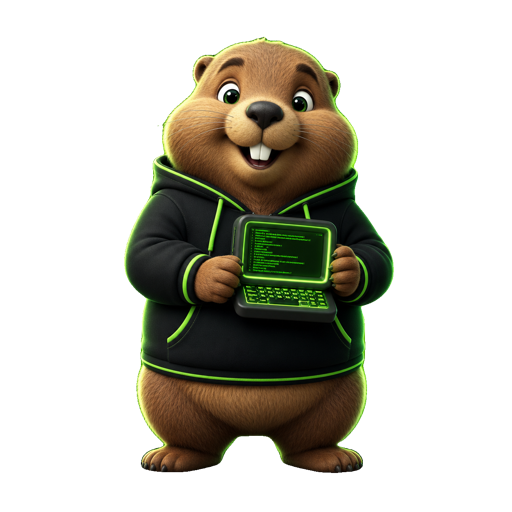
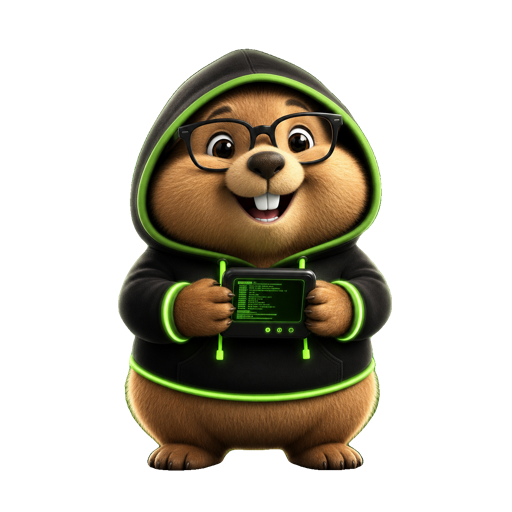
feat(app): 主题切换 crossfade 过渡 + code 图标质感升级 + 绿色吉祥物重做
- 切配色/切吉祥物/滑动切换/明暗切换 均带 280ms crossfade 淡出过渡（截当前屏→切主题→旧屏淡出），web 自动降级为直接切换
- 「内联工具调用」图标换成渐变 squircle chip（圆角+对角渐变+高光+投影，更有质感）
- 极客(hoodie)吉祥物换成新的全身形象

Generated with [Claude Code](https://claude.ai/code)
via [Happy](https://happy.engineering)

Changed region(s): [[0.2188, 0.0625, 0.7812, 0.9375]]

diff --git a/packages/happy-app/sources/components/ThemeTransition.tsx b/packages/happy-app/sources/components/ThemeTransition.tsx
@@ -1,0 +1,84 @@
+import * as React from 'react';
+import { View, StyleSheet, Platform } from 'react-native';
+import Animated, { useSharedValue, useAnimatedStyle, withTiming, runOnJS } from 'react-native-reanimated';
+import { Image } from 'expo-image';
+import { captureRef } from 'react-native-view-shot';
+
+//
+// 主题切换过渡（crossfade）
+// ------------------------------------------------------------------
+// 切换主题色/吉祥物时，先把「当前屏幕」截一张快照盖在最顶层，再切主题，
+// 然后让快照平滑淡出 —— 视觉上就是旧配色柔和溶解到新配色，简洁不花哨。
+//
+// 用法：把会改主题的操作包进 runThemeTransition(() => { ...setThemePack/applyTheme... })。
+// web 或截图不可用时自动降级为「无动画直接切换」。
+//
+
+const DURATION = 280;
+
+// 截图根 View 的 ref（由 <ThemeCaptureRoot> 注册）
+let rootRef: React.RefObject<View | null> | null = null;
+// overlay 控制器（由 <ThemeTransitionOverlay> 注册）
+let showOverlay: ((uri: string, apply: () => void) => void) | null = null;
+
+export async function runThemeTransition(apply: () => void) {
+    // 不具备条件就直接切换，绝不因动画失败而切不了主题
+    if (Platform.OS === 'web' || !rootRef?.current || !showOverlay) {
+        apply();
+        return;
+    }
+    try {
+        const uri = await captureRef(rootRef, { format: 'png', quality: 1 });
+        showOverlay(uri, apply);
+    } catch {
+        apply();
+    }
+}
+
+/** 截图根容器：包住要被快照的全部内容，并挂载淡出层 */
+export const ThemeCaptureRoot = React.memo(function ThemeCaptureRoot({ children }: { children: React.ReactNode }) {
+    const ref = React.useRef<View>(null);
+    React.useEffect(() => {
+        rootRef = ref;
+        return () => { rootRef = null; };
+    }, []);
+    return (
+        <View ref={ref} collapsable={false} style={{ flex: 1 }}>
+            {children}
+            <ThemeTransitionOverlay />
+        </View>
+    );
+});
+
+const ThemeTransitionOverlay = React.memo(function ThemeTransitionOverlay() {
+    const [uri, setUri] = React.useState<string | null>(null);
+    const applyRef = React.useRef<(() => void) | null>(null);
+    const opacity = useSharedValue(0);
+
+    React.useEffect(() => {
+        showOverlay = (u, apply) => {
+            applyRef.current = apply;
+            opacity.value = 1;   // 盖住（快照加载前底层仍是旧主题，无突兀）
+            setUri(u);
+        };
+        return () => { showOverlay = null; };
+    }, [opacity]);
+
+    // 快照加载完成 → 此刻切主题（被快照盖住看不到瞬切）→ 快照淡出露出新配色
+    const onLoaded = React.useCallback(() => {
+        applyRef.current?.();
+        applyRef.current = null;
+        opacity.value = withTiming(0, { duration: DURATION }, (finished) => {
+            if (finished) runOnJS(setUri)(null);
+        });
+    }, [opacity]);
+
+    const style = useAnimatedStyle(() => ({ opacity: opacity.value }));
+
+    if (!uri) return null;
+    return (
+        <Animated.View pointerEvents="none" style={[StyleSheet.absoluteFill, style]}>
+            <Image source={{ uri }} style={StyleSheet.absoluteFill} contentFit="cover" onLoad={onLoaded} />
+        </Animated.View>
+    );
+});

diff --git a/packages/happy-app/sources/components/GradientIcon.tsx b/packages/happy-app/sources/components/GradientIcon.tsx
@@ -1,0 +1,72 @@
+import * as React from 'react';
+import { View, StyleSheet } from 'react-native';
+import { LinearGradient } from 'expo-linear-gradient';
+import { Ionicons } from '@expo/vector-icons';
+
+//
+// 渐变图标 chip
+// ------------------------------------------------------------------
+// 圆角 squircle 方块 + 对角渐变 + 白色字形 + 柔和同色投影，
+// iOS app-icon 质感。用于设置项里需要更精致呈现的图标。
+//
+
+type GradientIconProps = {
+    name: React.ComponentProps<typeof Ionicons>['name'];
+    /** 渐变两端色（左上 → 右下） */
+    colors?: readonly [string, string];
+    /** chip 边长（默认贴合 Item iconContainer） */
+    size?: number;
+};
+
+export const GradientIcon = React.memo(function GradientIcon({
+    name,
+    colors = ['#7B8CFF', '#5856D6'],
+    size = 29,
+}: GradientIconProps) {
+    return (
+        <View
+            style={[
+                styles.chip,
+                {
+                    width: size,
+                    height: size,
+                    borderRadius: size * 0.3,
+                    shadowColor: colors[1],
+                },
+            ]}
+        >
+            <LinearGradient
+                colors={colors}
+                start={{ x: 0, y: 0 }}
+                end={{ x: 1, y: 1 }}
+                style={StyleSheet.absoluteFill}
+            />
+            {/* 顶部高光，增加立体质感 */}
+            <View style={styles.gloss} pointerEvents="none" />
+            <Ionicons name={name} size={size * 0.58} color="#FFFFFF" style={styles.glyph} />
+        </View>
+    );
+});
+
+const styles = StyleSheet.create({
+    chip: {
+        alignItems: 'center',
+        justifyContent: 'center',
+        overflow: 'hidden',
+        shadowOpacity: 0.45,
+        shadowRadius: 5,
+        shadowOffset: { width: 0, height: 2 },
+        elevation: 4,
+    },
+    gloss: {
+        position: 'absolute',
+        top: 0,
+        left: 0,
+        right: 0,
+        height: '50%',
+        backgroundColor: 'rgba(255,255,255,0.18)',
+    },
+    glyph: {
+        backgroundColor: 'transparent',
+    },
+});

diff --git a/packages/happy-app/sources/app/_layout.tsx b/packages/happy-app/sources/app/_layout.tsx
@@ -14,6 +14,7 @@ import { KeyboardProvider } from 'react-native-keyboard-controller';
 import { initialWindowMetrics, SafeAreaProvider, useSafeAreaInsets } from 'react-native-safe-area-context';
 import { GestureHandlerRootView } from 'react-native-gesture-handler';
 import { SidebarNavigator } from '@/components/SidebarNavigator';
+import { ThemeCaptureRoot } from '@/components/ThemeTransition';
 import sodium from '@/encryption/libsodium.lib';
 import { View, Platform, AppState } from 'react-native';
 import { ModalProvider } from '@/modal';
@@ -406,22 +407,24 @@ export default function RootLayout() {
         <SafeAreaProvider initialMetrics={initialWindowMetrics}>
             <KeyboardProvider preload={false}>
                 <GestureHandlerRootView style={{ flex: 1 }}>
-                    <AuthProvider initialCredentials={initState.credentials}>
-                        <ThemeProvider value={navigationTheme}>
-                            <StatusBarProvider />
-                            <ModalProvider>
-                                <BrowserNavigationShortcuts />
-                                <CommandPaletteProvider>
-                                    <RealtimeProvider>
-                                        <HorizontalSafeAreaWrapper>
-                                            <SidebarNavigator />
-                                        </HorizontalSafeAreaWrapper>
-                                    </RealtimeProvider>
-                                </CommandPaletteProvider>
-                                <ImageViewerHost />
-                            </ModalProvider>
-                        </ThemeProvider>
-                    </AuthProvider>
+                    <ThemeCaptureRoot>
+                        <AuthProvider initialCredentials={initState.credentials}>
+                            <ThemeProvider value={navigationTheme}>
+                                <StatusBarProvider />
+                                <ModalProvider>
+                                    <BrowserNavigationShortcuts />
+                                    <CommandPaletteProvider>
+                                        <RealtimeProvider>
+                                            <HorizontalSafeAreaWrapper>
+                                                <SidebarNavigator />
+                                            </HorizontalSafeAreaWrapper>
+                                        </RealtimeProvider>
+                                    </CommandPaletteProvider>
+                                    <ImageViewerHost />
+                                </ModalProvider>
+                            </ThemeProvider>
+                        </AuthProvider>
+                    </ThemeCaptureRoot>
                 </GestureHandlerRootView>
             </KeyboardProvider>
         </SafeAreaProvider>

diff --git a/packages/happy-app/sources/app/(app)/settings/appearance.tsx b/packages/happy-app/sources/app/(app)/settings/appearance.tsx
@@ -6,6 +6,8 @@ import { useSettingMutable, useLocalSettingMutable } from '@/sync/storage';
 import { useUnistyles, StyleSheet } from 'react-native-unistyles';
 import { Switch } from '@/components/Switch';
 import { applyTheme } from '@/unistyles';
+import { runThemeTransition } from '@/components/ThemeTransition';
+import { GradientIcon } from '@/components/GradientIcon';
 import { ACCENTS } from '@/themePacks';
 import { Typography } from '@/constants/Typography';
 import { Pressable, View, Text } from 'react-native';
@@ -54,9 +56,11 @@ export default function AppearanceSettingsScreen() {
                         const nextIndex = (currentIndex + 1) % 3;
                         const nextTheme = nextIndex === 0 ? 'adaptive' : nextIndex === 1 ? 'light' : 'dark';
                         
-                        // Update the setting and apply immediately (含主题包)
-                        setThemePreference(nextTheme);
-                        applyTheme(themePack, nextTheme);
+                        // 带 crossfade 过渡切换明暗
+                        runThemeTransition(() => {
+                            setThemePreference(nextTheme);
+                            applyTheme(themePack, nextTheme);
+                        });
                     }}
                 />
                 {/* 主题配色包选择器 — 一排色板，点选即切换 */}
@@ -67,10 +71,10 @@ export default function AppearanceSettingsScreen() {
                             <Pressable
                                 key={acc.id}
                                 style={styles.swatchItem}
-                                onPress={() => {
+                                onPress={() => runThemeTransition(() => {
                                     setThemePack(acc.id as typeof themePack);
                                     applyTheme(acc.id as typeof themePack, themePreference);
-                                }}
+                                })}
                             >
                                 <View style={[
                                     styles.swatchCircle,
@@ -97,13 +101,13 @@ export default function AppearanceSettingsScreen() {
                             <Pressable
                                 key={id}
                                 style={styles.mascotItem}
-                                onPress={() => {
-                                    // 选吉祥物即联动切换它绑定的主题配色（色板仍保留，可单独微调）
+                                onPress={() => runThemeTransition(() => {
+                                    // 选吉祥物即联动切换它绑定的主题配色（带 crossfade 过渡；色板仍保留可微调）
                                     setMascot(id);
                                     const pack = getMascotTheme(id);
                                     setThemePack(pack as typeof themePack);
                                     applyTheme(pack as typeof themePack, themePreference);
-                                }}
+                                })}
                             >
                                 <View style={[
                                     styles.mascotCard,
@@ -158,7 +162,7 @@ export default function AppearanceSettingsScreen() {
                 <Item
                     title={t('settingsAppearance.inlineToolCalls')}
                     subtitle={t('settingsAppearance.inlineToolCallsDescription')}
-                    icon={<Ionicons name="code-slash-outline" size={29} color="#5856D6" />}
+                    icon={<GradientIcon name="code-slash" colors={['#7B8CFF', '#5856D6']} />}
                     rightElement={
                         <Switch
                             value={viewInline}

diff --git a/packages/happy-app/sources/components/MascotSwitcher.tsx b/packages/happy-app/sources/components/MascotSwitcher.tsx
@@ -9,6 +9,7 @@ import { useLocalSettingMutable } from '@/sync/storage';
 import { getMascotImage, MASCOT_IDS, resolveMascotId, getMascotTheme } from '@/components/mascots';
 import { hapticsLight } from '@/components/haptics';
 import { applyTheme } from '@/unistyles';
+import { runThemeTransition } from '@/components/ThemeTransition';
 
 //
 // 设置页头部「土拨鼠 logo」滑动切换器
@@ -49,11 +50,14 @@ export const MascotSwitcher = React.memo(function MascotSwitcher() {
     const cycleMascot = React.useCallback((dir: number) => {
         const n = MASCOT_IDS.length;
         const next = MASCOT_IDS[(currentIndex + dir + n) % n];
-        setMascot(next);
-        const pack = getMascotTheme(next);
-        setThemePack(pack as 'caramel');
-        applyTheme(pack as 'caramel', themePreference);
         hapticsLight();
+        // 带 crossfade 过渡：切吉祥物 + 联动主题色
+        runThemeTransition(() => {
+            setMascot(next);
+            const pack = getMascotTheme(next);
+            setThemePack(pack as 'caramel');
+            applyTheme(pack as 'caramel', themePreference);
+        });
     }, [currentIndex, setMascot, setThemePack, themePreference]);
 
     const pan = React.useMemo(() => {